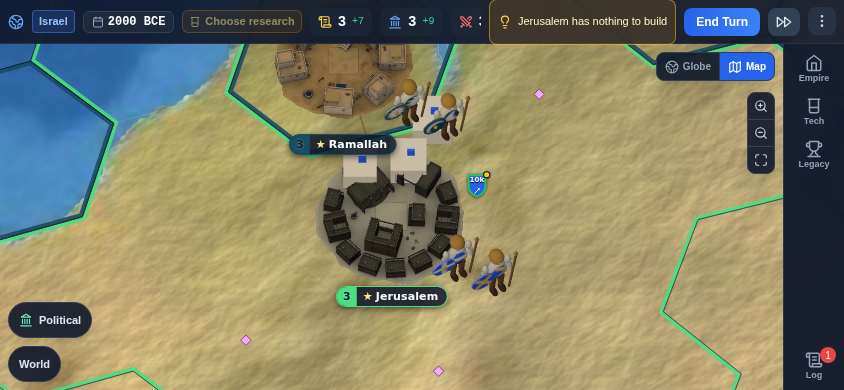
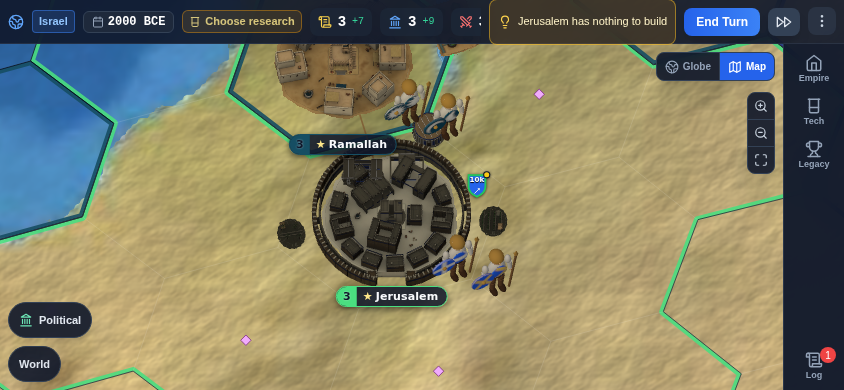
Building landmarks: use the delivered Israelite models
Merged claude/bronze-towns (ten src/assets/map/buildings/*-israelite.glb).
The delivered roots are named after the file (granary-israelite), so
buildingRoot picks the file-named object, then the bare id, then the only
object. They measure 15-18 m by 10-14 m, so BUILDING_DISC goes 0.7 -> 0.8
units; inner rim spots stay inside the ground and clear of the palace.

New test reads the real granary-israelite.glb (meshopt) into Town and Team
parts per LOD. Browser check redone on Jerusalem with the real models:
shrine and barracks on the back rim, granary outside the north wall.

Claude-Session: https://claude.ai/code/session_01J6vpR3wcBpdcQWzz4tXxBD

diff --git a/src/components/map/closeView/buildingModels.test.js b/src/components/map/closeView/buildingModels.test.js
@@ -6,7 +6,9 @@ import { Scene, Matrix4, Vector3, Color } from 'three';
 import { GLTFLoader } from 'three/examples/jsm/loaders/GLTFLoader.js';
 import { BUILDING_CATEGORIES } from '../../../data/buildings';
 import { styleOfLand } from '../../../data/architecture';
-import { BUILDING_MODEL_IDS, indexBuildingFiles, buildingModelUrl, builtModels, pickBuildingModels, buildingSpots, assignSpots, BUILDING_DISC, MAX_BUILDINGS } from './buildingModels';
+import fs from 'fs';
+import { MeshoptDecoder } from 'three/examples/jsm/libs/meshopt_decoder.module.js';
+import { BUILDING_MODEL_IDS, buildingRoot, indexBuildingFiles, buildingModelUrl, builtModels, pickBuildingModels, buildingSpots, assignSpots, BUILDING_DISC, MAX_BUILDINGS } from './buildingModels';
 import { prepareBuildingModel, createBuildingLayer } from './buildingLayer';
 import { loadAssetObjects, fieldsAround } from './townAssets';
 import { buildingGlb } from './glbFixture';
@@ -61,10 +63,13 @@ describe('building models: picking', () => {
     expect(pickBuildingModels({}, 'israelite', 'big', INDEX)).toEqual([]);
   });
 
-  it('draws nothing with the files shipped today unless some exist', () => {
-    const region = { buildings: cats({ food: 0 }) };
-    const picks = pickBuildingModels(region, 'israelite', 'small');
-    picks.forEach((p) => expect(p.url).toBeTruthy());
+  it('finds the shipped Israelite files for Israelite land only', () => {
+    const region = { buildings: cats({ food: 0, culture: 0 }) };
+    const il = pickBuildingModels(region, styleOfLand('il', 'bronze'), 'small');
+    il.forEach((p) => expect(p.url).toMatch(/-israelite/));
+    if (fs.existsSync('src/assets/map/buildings/granary-israelite.glb')) expect(il.map((p) => p.id)).toEqual(['shrine', 'granary']);
+    // no base files yet: other lands draw nothing
+    pickBuildingModels(region, 'europe', 'small').forEach((p) => expect(p.url).not.toMatch(/-israelite/));
   });
 });
 
@@ -80,8 +85,8 @@ describe('building models: placement', () => {
       expect(spots.slice(0, inner.length).every((s) => s.inner)).toBe(true);
       inner.forEach((s) => {
         expect(s.z).toBeLessThan(0); // north, away from the banner below the town
-        expect(Math.max(Math.abs(s.x), Math.abs(s.z)) + BUILDING_DISC).toBeLessThanOrEqual(half[tier] + 1e-9);
-        expect(Math.hypot(s.x, s.z) - BUILDING_DISC).toBeGreaterThan(tier === 'small' ? 0.45 : 0.65); // clear of the palace (0.4 and 0.6 across the shared files)
+        expect(Math.max(Math.abs(s.x), Math.abs(s.z)) + BUILDING_DISC).toBeLessThanOrEqual(half[tier] + 0.1); // within the ground, short of the wall ring
+        expect(Math.hypot(s.x, s.z) - BUILDING_DISC).toBeGreaterThanOrEqual(tier === 'small' ? 0.4 : 0.6); // clear of the palace (0.4 and 0.6 from the centre in the shared files)
       });
       spots.filter((s) => !s.inner).forEach((s) => {
         expect(Math.hypot(s.x, s.z) - BUILDING_DISC).toBeGreaterThan(wall[tier]);
@@ -128,10 +133,33 @@ describe('building models: placement', () => {
 describe('building models: a real GLB through the instanced layer', () => {
   const parse = (bytes) => new GLTFLoader().parseAsync(bytes.buffer.slice(bytes.byteOffset, bytes.byteOffset + bytes.byteLength), '');
 
+  it('finds the object named after the file, then the bare id, then the only one', () => {
+    expect(buildingRoot({ 'granary-israelite': 1, x: 2 }, 'granary', '/src/assets/map/buildings/granary-israelite.glb')).toBe(1);
+    expect(buildingRoot({ 'granary-israelite': 1, x: 2 }, 'granary', '/terra-imperium/assets/granary-israelite-Bx7kQ2aZ.glb')).toBe(1);
+    expect(buildingRoot({ x: 2, granary: 3 }, 'granary', 'u/granary.glb')).toBe(3);
+    expect(buildingRoot({ x: 2 }, 'granary', 'u/whatever.glb')).toBe(2);
+  });
+
+  const REAL = 'src/assets/map/buildings/granary-israelite.glb';
+  it.skipIf(!fs.existsSync(REAL))('reads a delivered Israelite landmark (meshopt) into Town and Team parts per LOD', async () => {
+    globalThis.self ||= globalThis; // GLTFLoader's texture path reads `self` (the embedded atlas fails to decode in node; the geometry is what is checked)
+    const b = fs.readFileSync(REAL);
+    const loader = new GLTFLoader(); loader.setMeshoptDecoder(MeshoptDecoder);
+    const objs = await loadAssetObjects('test://real-granary', () => loader.parseAsync(b.buffer.slice(b.byteOffset, b.byteOffset + b.length), ''));
+    const root = buildingRoot(objs, 'granary', REAL);
+    expect(root.name).toBe('granary-israelite');
+    const lods = prepareBuildingModel(root);
+    expect(lods).toHaveLength(3);
+    lods.forEach((parts) => {
+      expect(parts.length).toBeGreaterThan(0);
+      expect(parts.some((p) => p.kind === 'team')).toBe(true);
+    });
+  });
+
   it('parses the fixture into a root with LOD children and splits it per material', async () => {
-    const objs = await loadAssetObjects('test://granary-israelite.glb', () => parse(buildingGlb('granary')));
-    expect(Object.keys(objs)).toEqual(['granary']);
-    const lods = prepareBuildingModel(objs.granary);
+    const objs = await loadAssetObjects('test://granary-israelite.glb', () => parse(buildingGlb('granary-israelite')));
+    expect(Object.keys(objs)).toEqual(['granary-israelite']);
+    const lods = prepareBuildingModel(buildingRoot(objs, 'granary', 'test://granary-israelite.glb'));
     expect(lods).toHaveLength(3);
     lods.forEach((parts) => {
       expect(parts.map((p) => p.kind)).toEqual(['plain', 'team']);

diff --git a/src/components/map/closeView/buildingModels.js b/src/components/map/closeView/buildingModels.js
@@ -39,6 +39,13 @@ export const indexBuildingFiles = (files) => {
 const FILES = import.meta.glob('../../../assets/map/buildings/*.glb', { query: '?url', import: 'default', eager: true });
 const BY_ID = indexBuildingFiles(FILES);
 
+/** The object to draw from a loaded file: the one named after the file (granary-israelite), the
+ * bare id (granary), or the file's only object. */
+export const buildingRoot = (objs, id, url) => {
+  const file = (url || '').match(/\/([a-z_]+(?:-[a-z]+)?)(?:-[\w]{6,})?\.glb/)?.[1];
+  return (file && objs[file]) || objs[id] || Object.values(objs)[0];
+};
+
 /** The file for a building model on land of this style: its style chain first, then the base
  * file, or null (nothing is drawn). */
 export const buildingModelUrl = (id, style = null, index = BY_ID) => {
@@ -86,8 +93,9 @@ export const pickBuildingModels = (region, style = null, tierId = 'small', index
 };
 
 // ---- placement -----------------------------------------------------------------------------------
-// Model units (10 m): a landmark is 10 to 20 m across, the disc round it BUILDING_DISC.
-export const BUILDING_DISC = 0.7;
+// Model units (10 m): a landmark is 10 to 20 m across (the Israelite ones 15 to 18 m by 10 to 14),
+// the disc round it BUILDING_DISC.
+export const BUILDING_DISC = 0.8;
 // The town's square ground reaches TOWN_HALF each way; the wall ring's outer edge WALL_OUTER (the
 // shared files' walls-small, -medium and -big; the same ring with or without walls, so a town
 // that builds its walls later keeps its landmarks where they stood).
@@ -120,7 +128,7 @@ export const buildingSpots = (tierId, seed = 0, fields = []) => {
     const a = (deg * Math.PI) / 180;
     return { x: r * Math.cos(a), z: -r * Math.sin(a), yaw: 0, inner, deg };
   };
-  const inner = (INNER_ANGLES[tierId] || INNER_ANGLES.small).map((d) => spot(d + shift, half - BUILDING_DISC - 0.05, true));
+  const inner = (INNER_ANGLES[tierId] || INNER_ANGLES.small).map((d) => spot(d + shift, half - BUILDING_DISC + 0.05, true));
   const rOut = wall + 0.1 + BUILDING_DISC;
   const fieldAngles = fields.map((f) => (Math.atan2(-f.z, f.x) * 180) / Math.PI);
   const fieldR = fields.length ? Math.hypot(fields[0].x, fields[0].z) : 0;

diff --git a/src/components/map/closeView/CloseViewLayer.jsx b/src/components/map/closeView/CloseViewLayer.jsx
@@ -31,7 +31,7 @@ import { loadGroundData, isLandAt, sampleLandColour, groundTint, tintKey } from 
 import { createOccupancy } from './occupancy';
 import { worldRasterUrl } from '../../../data/geo/worldRaster';
 import { getTreeGeometry, getWorkGeometry } from './landscapeModels';
-import { pickBuildingModels, buildingSpots, assignSpots, BUILDING_DISC } from './buildingModels';
+import { pickBuildingModels, buildingSpots, assignSpots, buildingRoot, BUILDING_DISC } from './buildingModels';
 import { createBuildingLayer } from './buildingLayer';
 
 const TREE_KINDS = ['conifer', 'broad', 'palm'];
@@ -164,7 +164,7 @@ const CloseViewLayer = ({ projection, transform, width, height, active, land = n
       if (t.buildings.hasModel(url)) return true;
       if (!t.assets.has(url)) {
         t.assets.set(url, null);
-        loadAssetObjects(url).then((objs) => { t.buildings.setModel(url, objs[id] || Object.values(objs)[0]); setAssetsTick((n) => n + 1); })
+        loadAssetObjects(url).then((objs) => { t.buildings.setModel(url, buildingRoot(objs, id, url)); setAssetsTick((n) => n + 1); })
           .catch((e) => { console.warn('building model failed, the town stands without it:', e.message); });
       }
       return false;

diff --git a/plans/game/building-models.md b/plans/game/building-models.md
@@ -10,15 +10,18 @@ ground round it: first near the town's rim on the back (north) side, away from i
 town, then just outside the wall ring between its fields. They take the town's scale (the hex and
 room capped one), tilt, level of detail and Team colour, and never stand on water or on anything
 else (other towns, works, fields, other landmarks). No file means nothing is drawn and the town
-stays exactly as before. Today no building file is in the repo, so the game looks unchanged until
-the art session's `*-israelite.glb` files land.
+stays exactly as before. The ten Israelite landmarks (barracks, copper_mine, granary, harbor,
+irrigation, library, market, scriptorium, shrine, workshop; from claude/bronze-towns) are the
+first files; other lands draw nothing until their files arrive.
 
-![Jerusalem at k 120 with three placeholder landmarks](building-models/desktop-k120.png)
+![Jerusalem at k 120 with its Israelite landmarks](building-models/desktop-k120.png)
 
-The boxes with a blue flag are placeholder GLBs from the test fixture (`glbFixture.js`), written
-locally for the screenshot only and not committed: the real Israelite models were not on
-`origin/art/maghreb-westafrica` yet. Two stand on the back rim of the town, one outside the wall
-to the north; the fields keep their places east and west.
+Jerusalem was given a Shrine, Granary, Barracks, Palisade and a Copper Mine. As a medium town it shows
+three: the fortress sanctuary (shrine) and the chariot stables (barracks) on the back rim, the
+Megiddo silo (granary) just outside the wall to the north; the copper mine is fourth and left out.
+The fields keep their places east and west.
+
+![close up](building-models/jerusalem-crop.png)
 
 | Desktop, k 60 | Phone landscape 844x390, k 120 |
 |---|---|
@@ -26,6 +29,9 @@ to the north; the fields keep their places east and west.
 
 On the phone Jerusalem is squeezed by Ramallah next door (`townGapUnits`), so the spot outside its
 wall is taken by Ramallah's ground and only the rim spots are used.
+
+Note: the Israelite town and its landmarks render dark grey in this check (software GL), while the
+Levant town next door is sandy; worth a look on a real GPU in case the Israelite atlas is too dark.
 
 ## Files
 
@@ -58,6 +64,10 @@ wall is taken by Ramallah's ground and only the rim spots are used.
 
 ## Performance
 
+The delivered landmarks are 15 to 18 m by 10 to 14 m (1.5 to 1.8 by 1.0 to 1.4 units), so
+`BUILDING_DISC` is 0.8 units. Each file's root is named after the file (`granary-israelite`):
+`buildingRoot` picks that object, then the bare id, then the file's only object.
+
 Draw calls grow with the kinds of landmark on screen, not with the towns: a model with Town and
 Team parts costs 2 draw calls whatever the number of towns showing it. The check above measured 6
 extra draw calls for three different models. Per frame the work is a few `landAt` lookups and
@@ -69,16 +79,14 @@ matrix products per town with landmarks; the picks and spots are cached.
   the cap; zero files draw nothing; inner spots on the back rim inside the ground and clear of the
   palace; outer spots outside the wall, never at the gate, clear of fields; greedy assignment; and a
   generated GLB parsed by GLTFLoader through `loadAssetObjects` into the instanced layer (40 towns,
-  2 draw calls, Team tinted per town).
-- Browser: Playwright with `/opt/pw-browsers/chromium`, `npx vite`, Israel's capital given seven
+  2 draw calls, Team tinted per town), plus the delivered granary-israelite.glb (meshopt) read into
+  Town and Team parts for each LOD.
+- Browser: Playwright with `/opt/pw-browsers/chromium`, `npx vite`, Israel's capital given five
   buildings through `window.__game`, `window.__map2DTest.focus` at k 16 to 120, desktop and phone.
   No page errors; the only console notices were the software GL driver's ReadPixels stalls.
 
 ## Open
 
-- Recheck with the real Israelite models once `origin/art/maghreb-westafrica` has
-  `src/assets/map/buildings/*-israelite.glb`: copy them in locally, run the same check, look at
-  scale (the code assumes the files use the town files' units, 1 unit = 10 m).
 - The naval line could prefer a spot on the coast side; today it takes the first free land spot.
 - `cathedral-a` / `cathedral-b` (spec section 4) would read as style `a` / `b`: if both are
   delivered, name them `cathedral.glb` and `cathedral-<style>.glb` or add a variant rule.
